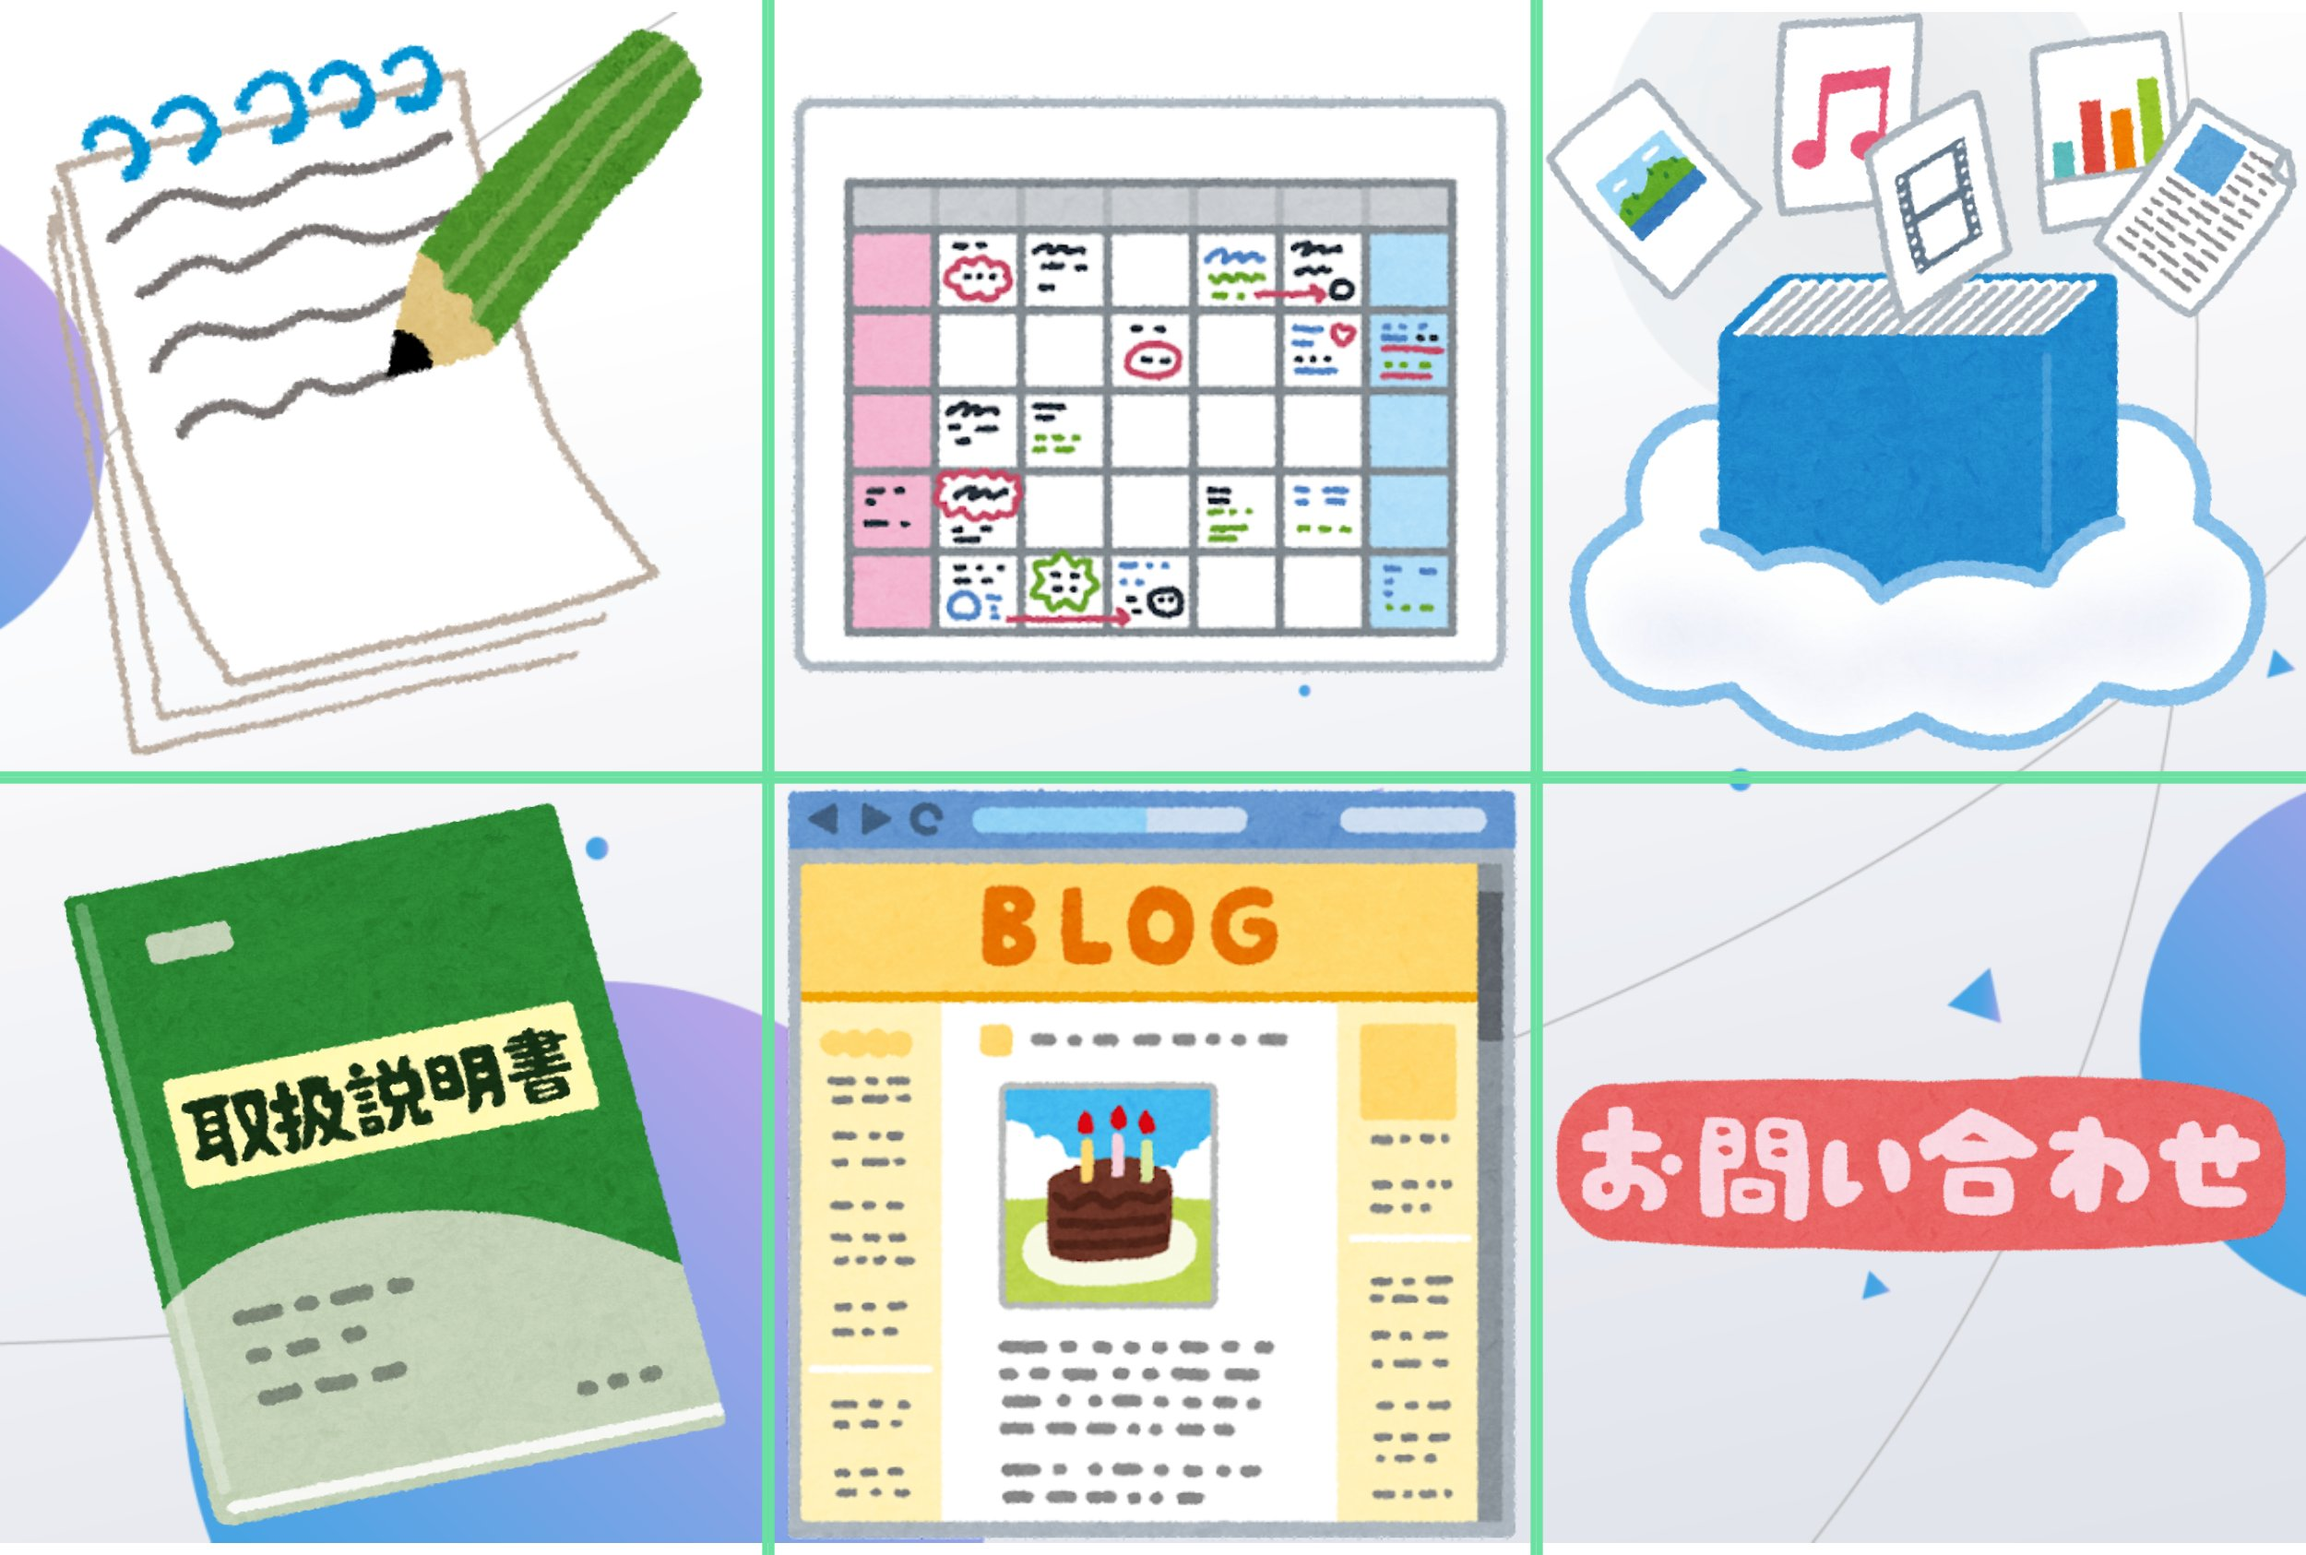
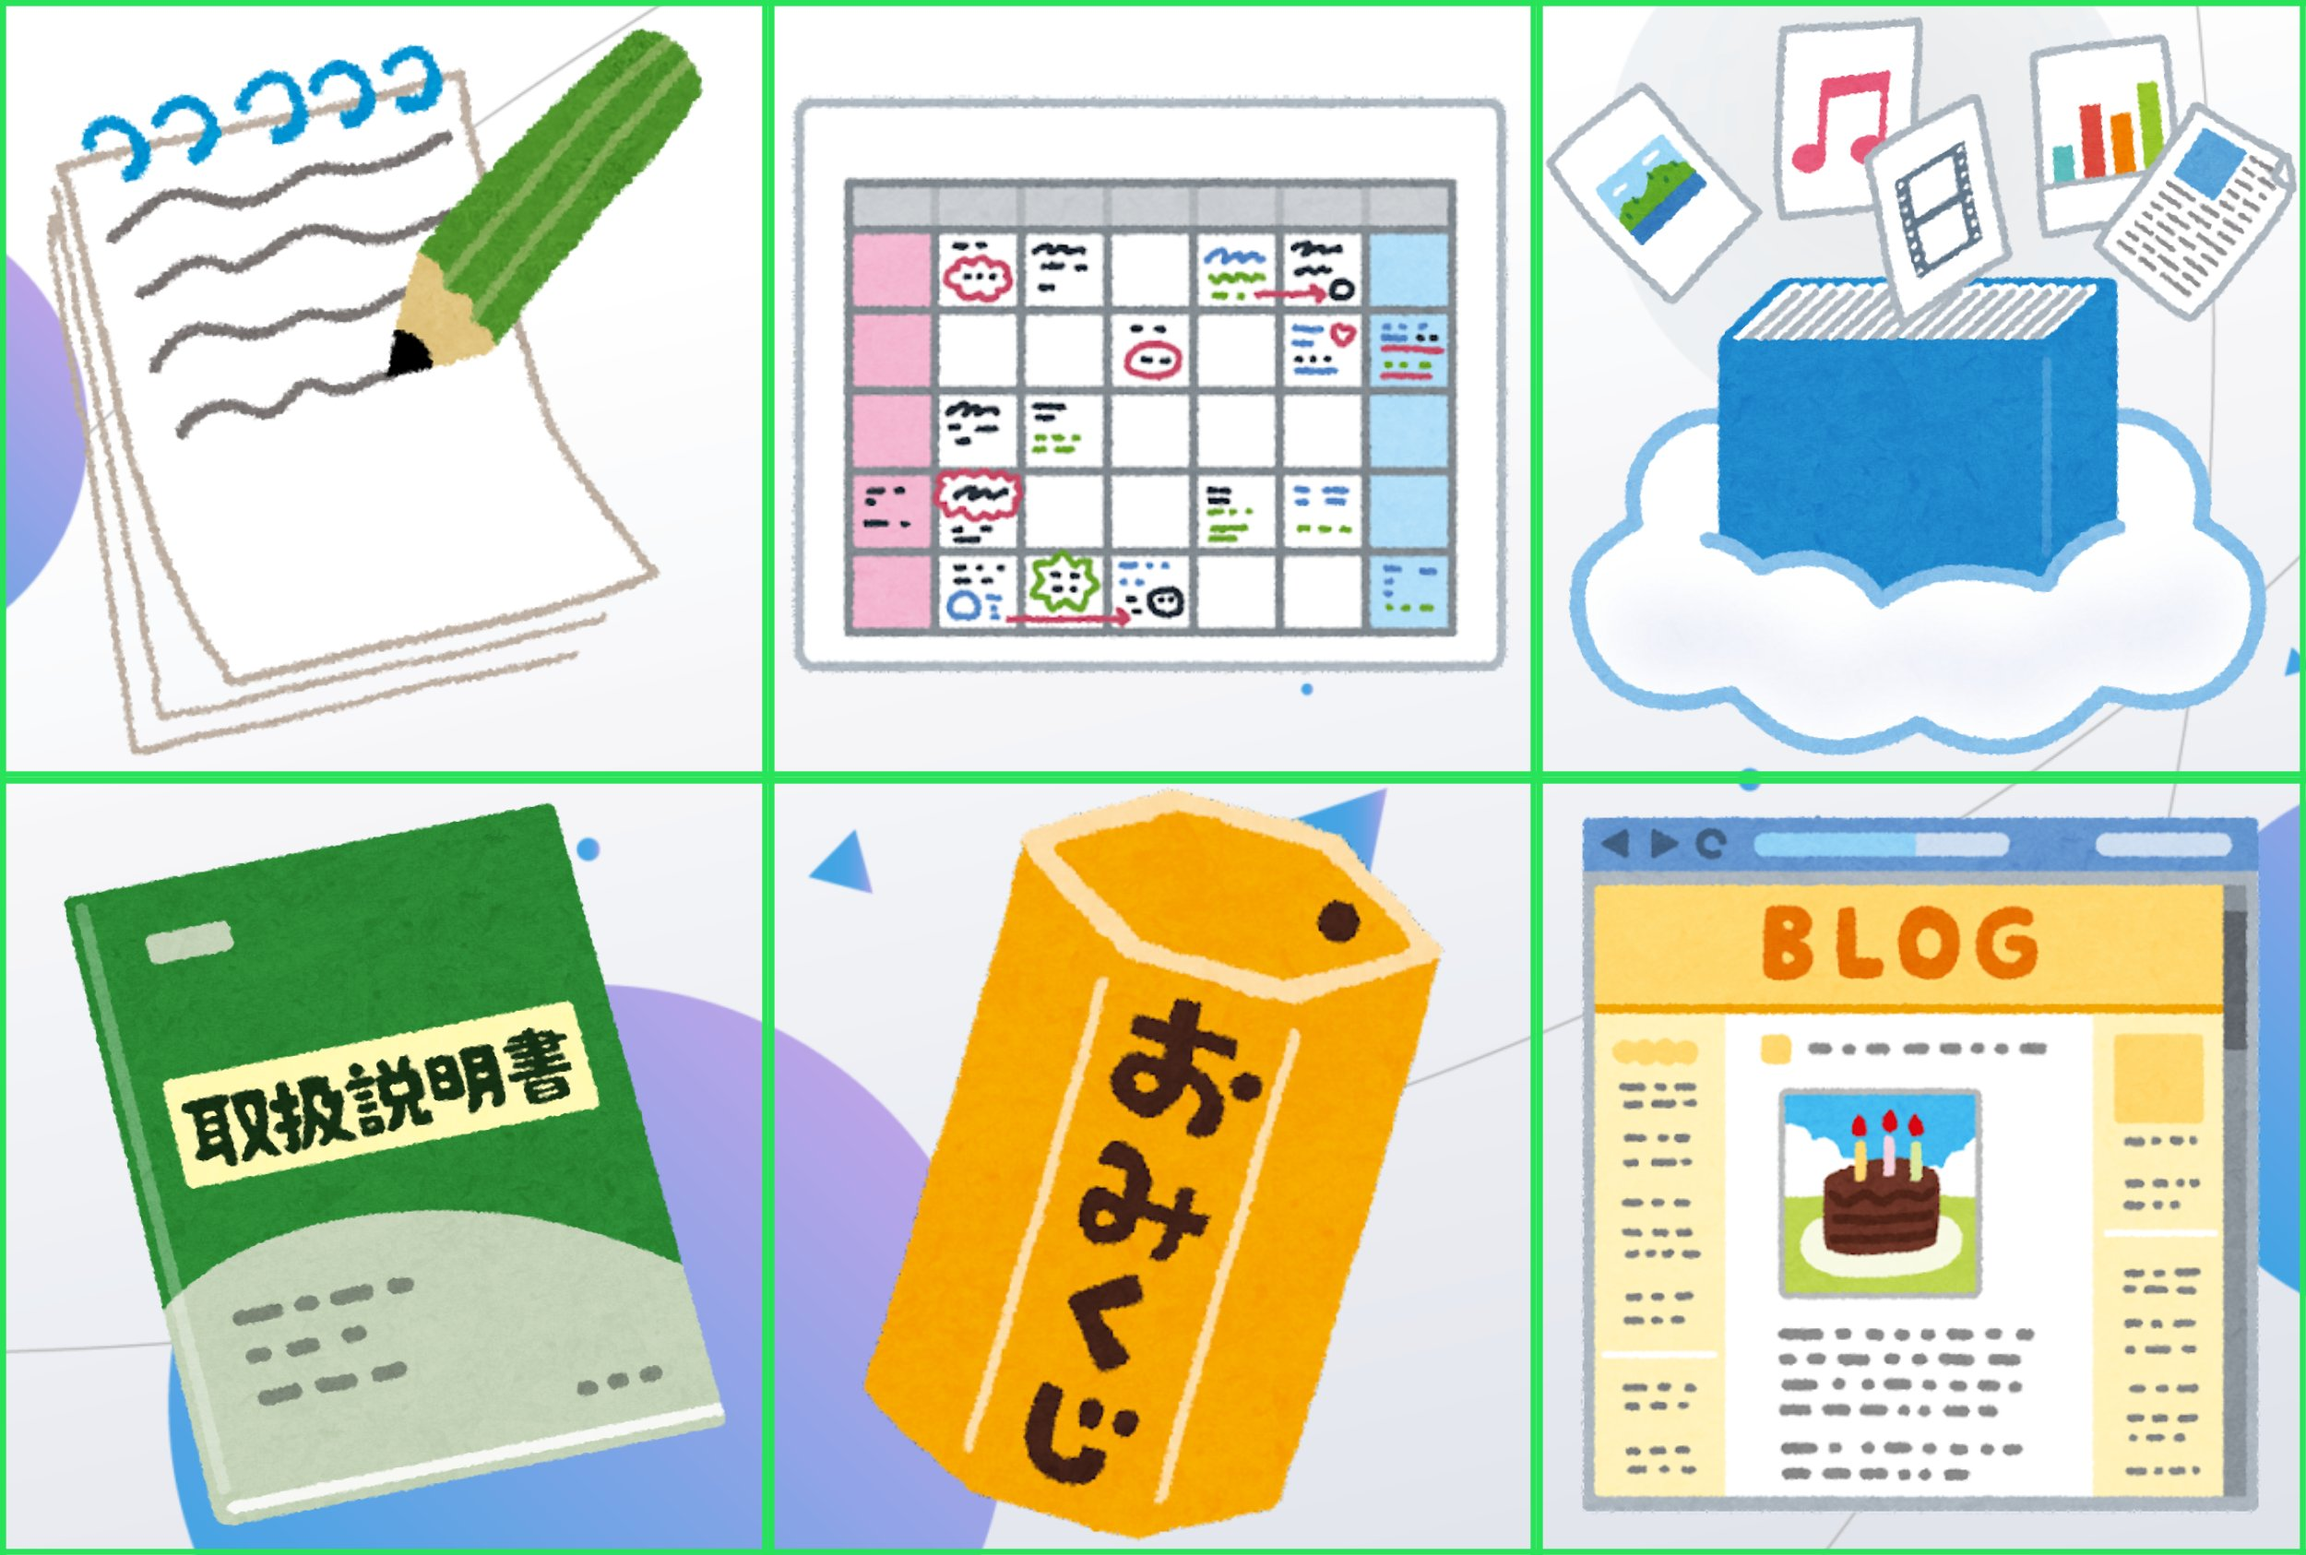
update richmenu

diff --git a/create_rich_menu.py b/create_rich_menu.py
@@ -83,10 +83,11 @@ raw_rich_menu = RichMenu(
                 width=rich_menu_width * 8 / 30,
                 height=rich_menu_height * 1 / 2,
             ),
-            action=URIAction(
-                label="blog",
-                uri="https://cacaca-blog.vercel.app",
+            action=PostbackAction(
+                label="draw an oracle",
+                data=PostbackActionData.oracle.value,
             ),
+
         ),
         RichMenuArea(
             bounds=RichMenuBounds(
@@ -95,9 +96,9 @@ raw_rich_menu = RichMenu(
                 width=rich_menu_width * 8 / 30,
                 height=rich_menu_height * 1 / 2,
             ),
-            action=PostbackAction(
-                label="inquiry",
-                data=PostbackActionData.inquiry.value,
+            action=URIAction(
+                label="blog",
+                uri="https://cacaca-blog.vercel.app",
             ),
         ),
     ],

diff --git a/config/settings.py b/config/settings.py
@@ -60,5 +60,5 @@ class PostbackActionData(Enum):
     file_post = "file_post"
     file_deletion = "file_deletion"
     usage = "usage"
-    inquiry = "inquiry"
+    oracle = "oracle"
     terminate = "terminate"
